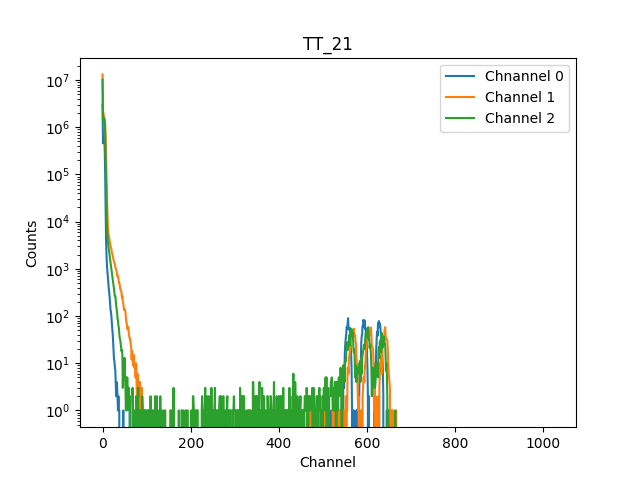
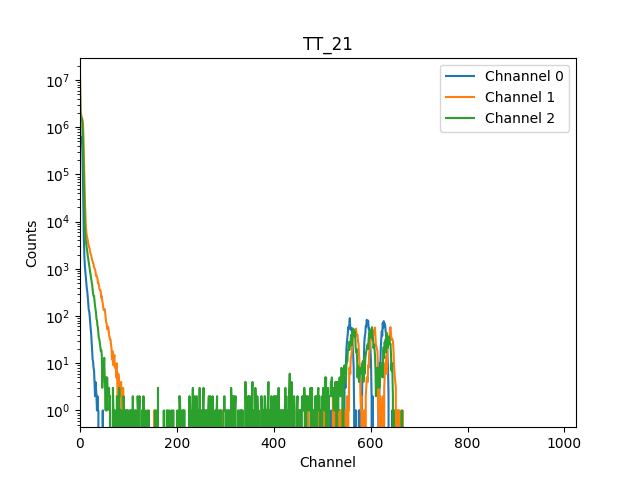
calib.py

diff --git a/calib.py b/calib.py
@@ -1,0 +1,65 @@
+import numpy as np
+import xml.etree.ElementTree as ET
+import matplotlib.pyplot as plt
+import scipy as scipy
+
+# Function to read the data from the file
+def reader (name, Chn):
+    # Parse the XML data from the file
+    tree = ET.parse(name)
+    root = tree.getroot()
+    # Access spectrum data
+    spectrum_data_str = root.find(f".//Spectrum[@id='RadMeasurement-{Chn}_Spectrum-{Chn}']/ChannelData").text
+    # Convert the spectrum data string to a vector of data
+    spectrum_data_array = np.array([float(value) for value in spectrum_data_str.split()])
+
+    return spectrum_data_array
+
+# TT_21
+TT21_Chn0 = reader('data/TT_21/UNFILTERED/CH0@N6781_21198_Espectrum_TT_21_20231207_143401.n42', 0)
+TT21_Chn1 = reader('data/TT_21/UNFILTERED/CH1@N6781_21198_Espectrum_TT_21_20231207_143401.n42', 1)
+TT21_Chn2 = reader('data/TT_21/UNFILTERED/CH2@N6781_21198_Espectrum_TT_21_20231207_143401.n42', 2)
+
+# TT_21
+plt.figure()
+plt.plot(TT21_Chn0, label='Chnannel 0')
+plt.plot(TT21_Chn1, label='Channel 1')
+plt.plot(TT21_Chn2, label='Channel 2')
+plt.legend()
+plt.title('TT_21')
+plt.yscale('log')
+plt.xlabel('Channel')
+plt.xlim(0, 1024)
+plt.ylabel('Counts')
+plt.savefig('TT_21.png')
+plt.show()
+
+# Calibration
+
+# For the calibration we will use the data from the TT_21 file
+
+plt.figure()
+plt.plot(TT21_Chn0, label='Chnannel 0')
+plt.legend()
+plt.title('TT_21')
+plt.xlabel('Channel')
+plt.yscale('log')
+plt.ylabel('Counts')
+plt.xlim(500, 700)
+plt.ylim(1, 1e3)
+plt.savefig('TT_21_Chn0.png')
+plt.show()
+
+# Gaussian fit for the peaks (soma 3 de gaussianas)
+def gaussian(x, a1, x01, sigma1, a2, x02, sigma2, a3, x03, sigma3, c):
+    return a1*np.exp(-(x-x01)**2/(2*sigma1**2)) + a2*np.exp(-(x-x02)**2/(2*sigma2**2)) + a3*np.exp(-(x-x03)**2/(2*sigma3**2)) + c
+
+# Peaks
+x = np.array(range(500, 701))
+print(x)
+y = TT21_Chn0[500:700]
+print(y)
+scipy.optimize.curve_fit(gaussian, x,y)
+
+# valores de energia para os 3 picos
+energy = np.array([5156.59, 5485.56, 5804.82])
